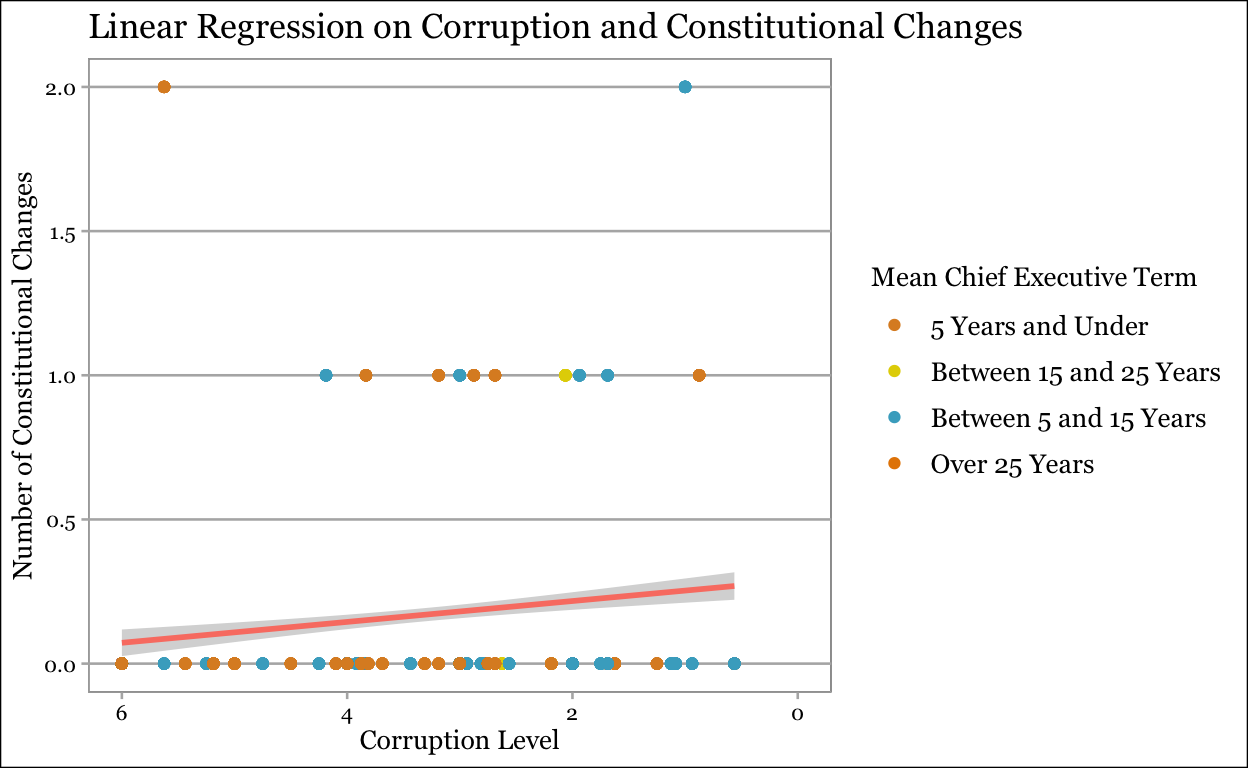
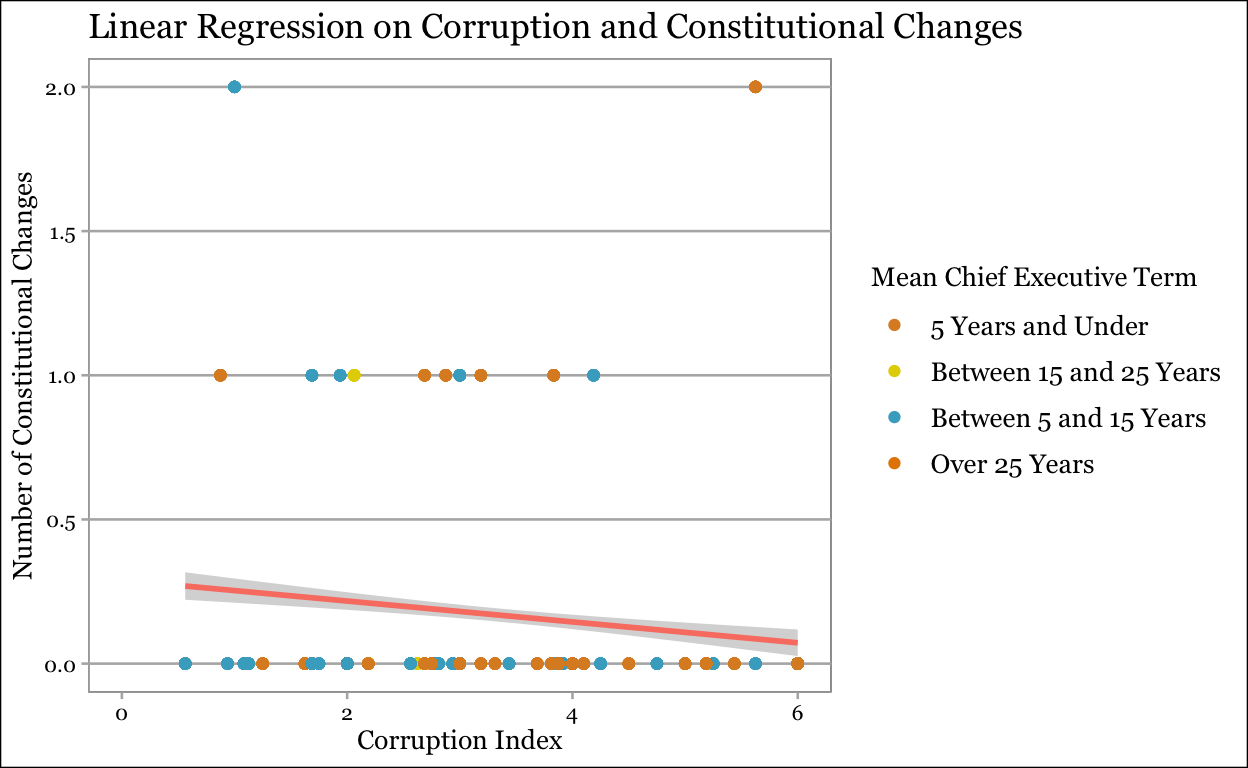
bjvdlo

diff --git a/index.html b/index.html
@@ -110,7 +110,7 @@ code span.wa { color: #5e5e5e; font-style: italic; } /* Warning */
   <!--radix_placeholder_rmarkdown_metadata-->
 
   <script type="text/json" id="radix-rmarkdown-metadata">
-  {"type":"list","attributes":{"names":{"type":"character","attributes":{},"value":["title","author","description","output"]}},"value":[{"type":"character","attributes":{},"value":["Gov 50 Final Project"]},{"type":"list","attributes":{},"value":[{"type":"list","attributes":{"names":{"type":"character","attributes":{},"value":["name"]}},"value":[{"type":"character","attributes":{},"value":["Ayla Aliyeva"]}]}]},{"type":"character","attributes":{},"value":["Corruption, Constitutional Changes, Leadership: An Analysis"]},{"type":"list","attributes":{"names":{"type":"character","attributes":{},"value":["distill::distill_article"]}},"value":[{"type":"list","attributes":{"names":{"type":"character","attributes":{},"value":["self_contained"]}},"value":[{"type":"logical","attributes":{},"value":[false]}]}]}]}
+  {"type":"list","attributes":{"names":{"type":"character","attributes":{},"value":["title","author","description","output"]}},"value":[{"type":"character","attributes":{},"value":["Gov 50 Final Project"]},{"type":"list","attributes":{},"value":[{"type":"list","attributes":{"names":{"type":"character","attributes":{},"value":["name"]}},"value":[{"type":"character","attributes":{},"value":["Ayla Aliyeva"]}]}]},{"type":"character","attributes":{},"value":["Corruption, Constitutional Changes, Leadership: An Analysis"]},{"type":"list","attributes":{"names":{"type":"character","attributes":{},"value":["distill::distill_article"]}},"value":[{"type":"list","attributes":{"names":{"type":"character","attributes":{},"value":["self_contained","toc","toc_float","code_folding"]}},"value":[{"type":"logical","attributes":{},"value":[false]},{"type":"logical","attributes":{},"value":[true]},{"type":"logical","attributes":{},"value":[true]},{"type":"logical","attributes":{},"value":[true]}]}]}]}
   </script>
   <!--/radix_placeholder_rmarkdown_metadata-->
   
@@ -1519,8 +1519,24 @@ code span.wa { color: #5e5e5e; font-style: italic; } /* Warning */
 </div>
 
 <div class="d-article">
+<div class="d-contents d-contents-float">
+<nav class="l-text toc figcaption" id="TOC">
+<h3>Contents</h3>
+<ul>
+<li><a href="#set-up-chunk" id="toc-set-up-chunk">Set up chunk</a></li>
+<li><a href="#preparing-the-data" id="toc-preparing-the-data">Preparing the data</a></li>
+<li><a href="#introduction" id="toc-introduction">Introduction</a></li>
+<li><a href="#data" id="toc-data">Data</a></li>
+<li><a href="#results" id="toc-results">Results</a></li>
+</ul>
+</nav>
+</div>
 <h2 id="set-up-chunk">Set up chunk</h2>
 <div class="layout-chunk" data-layout="l-body">
+<details>
+<summary>
+Show code
+</summary>
 <div class="sourceCode">
 <pre class="sourceCode r"><code class="sourceCode r"><span><span class='kw'><a href='https://rdrr.io/r/base/library.html'>library</a></span><span class='op'>(</span><span class='va'><a href='https://tidyverse.tidyverse.org'>tidyverse</a></span><span class='op'>)</span></span>
 <span><span class='kw'><a href='https://rdrr.io/r/base/library.html'>library</a></span><span class='op'>(</span><span class='va'><a href='https://github.com/jrnold/ggthemes'>ggthemes</a></span><span class='op'>)</span></span>
@@ -1528,12 +1544,14 @@ code span.wa { color: #5e5e5e; font-style: italic; } /* Warning */
 <span><span class='kw'><a href='https://rdrr.io/r/base/library.html'>library</a></span><span class='op'>(</span><span class='va'><a href='https://jtools.jacob-long.com'>jtools</a></span><span class='op'>)</span></span>
 <span><span class='kw'><a href='https://rdrr.io/r/base/library.html'>library</a></span><span class='op'>(</span><span class='va'><a href='https://modelsummary.com'>modelsummary</a></span><span class='op'>)</span></span></code></pre>
 </div>
+</details>
 </div>
-<h2 id="introduction">Introduction</h2>
-<p>Do higher levels of corruption lead to more frequent constitutional changes? If so, is there a direct correlation between this trend and the average number of years the Chief Executive of a country stays in power? In this study, I examine data from a variety of countries in order to explore the relationship between these variables throughout the two decades of the 1970s and 1980s. I hypothesise that higher levels of corruption are positively correlated with more frequent constitutional changes and a higher average period within which a Chief Executive remains in office. This hypothesis is grounded in the theory that governments with higher corruption levels are more likely to revise legislation in order to hold on to power.</p>
-<p>Through this study, I attempt to explore the implications of corruption in the misuse of power to influence constitutional frameworks and governance. In the case that the data supports the hypothesis, this would point to a country’s level of corruption as a determinant of both the nature of its legal system, as well as the course of its executive leadership.</p>
 <h2 id="preparing-the-data">Preparing the data</h2>
 <div class="layout-chunk" data-layout="l-body">
+<details>
+<summary>
+Show code
+</summary>
 <div class="sourceCode">
 <pre class="sourceCode r"><code class="sourceCode r"><span><span class='co'>## Reading data files</span></span>
 <span></span>
@@ -1583,12 +1601,20 @@ code span.wa { color: #5e5e5e; font-style: italic; } /* Warning */
 <span> <span class='va'>data</span> <span class='op'>&lt;-</span> <span class='va'>data</span> <span class='op'>|&gt;</span></span>
 <span>   <span class='fu'><a href='https://dplyr.tidyverse.org/reference/select.html'>select</a></span><span class='op'>(</span><span class='va'>country</span>,<span class='va'>year</span>, <span class='va'>constchg70</span>, <span class='va'>constchg80</span>, <span class='va'>constch_overall</span>, <span class='va'>corrupti</span>, <span class='va'>yrsoffc</span>, <span class='va'>avg_yrsoffc</span><span class='op'>)</span></span></code></pre>
 </div>
+</details>
 </div>
-<h2 id="data-section">Data Section</h2>
+<h2 id="introduction">Introduction</h2>
+<p>Do higher levels of corruption lead to more frequent constitutional changes? If so, is there a direct correlation between this trend and the average number of years the Chief Executive of a country stays in power? In this study, I examine data from a variety of countries in order to explore the relationship between these variables throughout the two decades of the 1970s and 1980s. I hypothesise that higher levels of corruption are positively correlated with more frequent constitutional changes and a higher average period within which a Chief Executive remains in office. This hypothesis is grounded in the theory that governments with higher corruption levels are more likely to revise legislation in order to hold on to power.</p>
+<p>Through this study, I attempt to explore the implications of corruption in the misuse of power to influence constitutional frameworks and governance. In the case that the data supports the hypothesis, this would point to a country’s level of corruption as a determinant of both the nature of its legal system, as well as the course of its executive leadership.</p>
+<h2 id="data">Data</h2>
 <p>The data source used in this study is one that has been gathered by merging the Political Violence Dataset, as well as the Inter-American Development Bank “Database of Political Institutions” to ultimately extract the key dependent and independent variables.</p>
-<p>The dependent variable used in this research is the overall number of major constitutional changes for countries throughout the period of the 1970s and 1980s, derived from the two variables relaying the number of constitutional changes for a given country within each of the two decades, its measurement method being through a compilation of government records. The key independent variables are the countries’ level of corruption, as well as the average number of years the Chief Executive remains in office. The level of corruption is measured using 1980-1989 Knack and Keefer measure of corruption, with a lower number indicating a lower level of corruption. The latter variable relays the official number of years the Chief Executive of the time remained in office, calculated cumulatively for each Chief Executive as of January 1st of each year, derived from public records.</p>
-<p>The density plot below summarises the frequency of constitutional change across countries, demonstrating the manner in which the variable is skewed to the right, with most countries having undergone no constitutional changes over the two decades.</p>
+<p>The dependent variable used in this research is the overall number of major constitutional changes for countries throughout the period of the 1970s and 1980s, derived from the two variables relaying the number of constitutional changes for a given country within each of the two decades, its measurement method being through a compilation of government records. The key independent variables are the countries’ level of corruption, as well as the average number of years the Chief Executive remains in office. The level of corruption is measured using 1980-1989 Knack and Keefer measure of corruption, with a lower number indicating a lower level of corruption. The latter independent variable relays the official number of years the Chief Executive of the time remained in office, calculated cumulatively for each Chief Executive as of January 1st of each year, derived from public records.</p>
+<p>The bar plot below summarises the frequency of constitutional change, a discrete variable, across countries between the 1970s and 1980s, demonstrating that a majority countries in the dataset had not gone through constitutional changes within the given period. The second highest bar signifies countries that had undergone 1 constitutional change, with the lowest bar showing countries that had undergone 2 constitutional changes.</p>
 <div class="layout-chunk" data-layout="l-body">
+<details>
+<summary>
+Show code
+</summary>
 <div class="sourceCode">
 <pre class="sourceCode r"><code class="sourceCode r"><span><span class='co'>## Creating an object that extracts first observation for each country</span></span>
 <span><span class='va'>countryonce_data</span> <span class='op'>&lt;-</span></span>
@@ -1600,15 +1626,24 @@ code span.wa { color: #5e5e5e; font-style: italic; } /* Warning */
 <span><span class='co'>## Bar plot summarizing key dependent variable</span></span>
 <span><span class='va'>countryonce_data</span> <span class='op'>|&gt;</span></span>
 <span>  <span class='fu'><a href='https://ggplot2.tidyverse.org/reference/ggplot.html'>ggplot</a></span><span class='op'>(</span>mapping <span class='op'>=</span> <span class='fu'><a href='https://ggplot2.tidyverse.org/reference/aes.html'>aes</a></span><span class='op'>(</span>x <span class='op'>=</span> <span class='va'>constch_overall</span><span class='op'>)</span><span class='op'>)</span> <span class='op'>+</span> </span>
-<span>  <span class='fu'><a href='https://ggplot2.tidyverse.org/reference/geom_density.html'>geom_density</a></span><span class='op'>(</span>fill <span class='op'>=</span> <span class='st'>"lightsteelblue"</span><span class='op'>)</span> <span class='op'>+</span> </span>
+<span>  <span class='fu'><a href='https://ggplot2.tidyverse.org/reference/geom_bar.html'>geom_bar</a></span><span class='op'>(</span>fill <span class='op'>=</span> <span class='st'>"lightsteelblue"</span>, colour <span class='op'>=</span> <span class='st'>"darkblue"</span><span class='op'>)</span> <span class='op'>+</span> </span>
 <span>  <span class='fu'><a href='https://ggplot2.tidyverse.org/reference/labs.html'>labs</a></span><span class='op'>(</span>title <span class='op'>=</span> <span class='st'>"Frequency of Constitutional Change Across Countries"</span>, y <span class='op'>=</span> <span class='st'>"Number of Countries"</span>, x <span class='op'>=</span> <span class='st'>"Number of Major Constitutional Changes (1970s-1980s)"</span><span class='op'>)</span> <span class='op'>+</span> </span>
 <span>  <span class='fu'><a href='https://rdrr.io/pkg/ggthemes/man/theme_calc.html'>theme_calc</a></span><span class='op'>(</span><span class='op'>)</span> <span class='op'>+</span></span>
 <span>  <span class='fu'><a href='https://ggplot2.tidyverse.org/reference/theme.html'>theme</a></span><span class='op'>(</span>text <span class='op'>=</span> <span class='fu'><a href='https://ggplot2.tidyverse.org/reference/element.html'>element_text</a></span><span class='op'>(</span><span class='st'>"Georgia"</span><span class='op'>)</span><span class='op'>)</span></span></code></pre>
 </div>
+</details>
 <p><img src="index_files/figure-html5/unnamed-chunk-3-1.png" width="624" /></p>
 </div>
-<h2 id="visualisation-2---results-regression-combining-everything">Visualisation 2 - Results, Regression, Combining everything</h2>
+<h2 id="results">Results</h2>
+<p>In order to explore the main relationships of interest, I constructed a scatter plot, followed by a linear regression of the results. As shown by the estimated line of best fit in the graph below, the correlation between the number of constitutional changes and the 1980-1989 Knack and Keefer index of corruption is negative. As mentioned above, a higher corruption index signifies a lower actual level of corruption. Therefore, according to the plot, higher corruption is associated with a higher number of constitutional changes.</p>
+<p>The linear regression further supports this relationship. The corrupti (corruption index) coefficient of -0.035 estimates that for every unit increase in the corruption index, there is a 0.035 decrease in the number of constitutional changes. The p value being below 0.001 shows that the coefficient is statistically significant, meaning that we may reject the null hypothesis of no effect. Furthermore, the relatively small standard error (which shows how far, on average, the actual points of observation lie from the estimated line of regression) of 0.008 implies the regression to be a rather precise estimate.</p>
+<p>In regards to the relationship between the number of constitutional changes and the average number of years a Chief Executive remains in office (the second independent variable), the regression shows a positive correlation. More specifically, the coefficient of 0.001 suggests that for every unit increase in the mean Chief Executive term in office, there is a 0.001 increase in the number of constitutional changes. However, the p value of 0.115, means that at a significance level of 0.05, the coefficient is not statistically significant. Therefore, in this case, we cannot reject the null hypothesis.</p>
+<p>Considering the analysis above, while we can establish a correlation between the dependent and independent variables, we cannot be certain that the relationship between them is causal. This is due to the possibility of omitted variables as well as potential confounders, such as factors influencing the overall economic and political stability in the given countries.</p>
 <div class="layout-chunk" data-layout="l-body">
+<details>
+<summary>
+Show code
+</summary>
 <div class="sourceCode">
 <pre class="sourceCode r"><code class="sourceCode r"><span><span class='co'>## Creating a variable with categories describing average years of countries' Chief Executive in office</span></span>
 <span></span>
@@ -1629,15 +1664,19 @@ code span.wa { color: #5e5e5e; font-style: italic; } /* Warning */
 <span>  <span class='fu'><a href='https://ggplot2.tidyverse.org/reference/ggplot.html'>ggplot</a></span><span class='op'>(</span>mapping <span class='op'>=</span> <span class='fu'><a href='https://ggplot2.tidyverse.org/reference/aes.html'>aes</a></span><span class='op'>(</span>x <span class='op'>=</span> <span class='va'>corrupti</span>, y <span class='op'>=</span> <span class='va'>constch_overall</span>, colour <span class='op'>=</span> <span class='va'>avgyrs_range</span><span class='op'>)</span><span class='op'>)</span> <span class='op'>+</span> </span>
 <span>  <span class='fu'><a href='https://ggplot2.tidyverse.org/reference/geom_point.html'>geom_point</a></span><span class='op'>(</span><span class='op'>)</span> <span class='op'>+</span> </span>
 <span>  <span class='fu'><a href='https://ggplot2.tidyverse.org/reference/geom_smooth.html'>geom_smooth</a></span><span class='op'>(</span>method <span class='op'>=</span> <span class='va'>lm</span>, colour <span class='op'>=</span> <span class='st'>"salmon"</span><span class='op'>)</span> <span class='op'>+</span> </span>
-<span>  <span class='fu'><a href='https://ggplot2.tidyverse.org/reference/labs.html'>labs</a></span><span class='op'>(</span>title <span class='op'>=</span> <span class='st'>"Linear Regression on Corruption and Constitutional Changes"</span>, y <span class='op'>=</span> <span class='st'>"Number of Constitutional Changes"</span>, x <span class='op'>=</span> <span class='st'>"Corruption Level"</span>, colour <span class='op'>=</span> <span class='st'>"Mean Chief Executive Term"</span><span class='op'>)</span> <span class='op'>+</span> </span>
-<span>  <span class='fu'><a href='https://ggplot2.tidyverse.org/reference/scale_continuous.html'>scale_x_reverse</a></span><span class='op'>(</span><span class='op'>)</span> <span class='op'>+</span></span>
+<span>  <span class='fu'><a href='https://ggplot2.tidyverse.org/reference/labs.html'>labs</a></span><span class='op'>(</span>title <span class='op'>=</span> <span class='st'>"Linear Regression on Corruption and Constitutional Changes"</span>, y <span class='op'>=</span> <span class='st'>"Number of Constitutional Changes"</span>, x <span class='op'>=</span> <span class='st'>"Corruption Index"</span>, colour <span class='op'>=</span> <span class='st'>"Mean Chief Executive Term"</span><span class='op'>)</span> <span class='op'>+</span> </span>
 <span>  <span class='fu'><a href='https://rdrr.io/pkg/ggthemes/man/theme_calc.html'>theme_calc</a></span><span class='op'>(</span><span class='op'>)</span> <span class='op'>+</span></span>
 <span>  <span class='fu'><a href='https://ggplot2.tidyverse.org/reference/scale_manual.html'>scale_color_manual</a></span><span class='op'>(</span>values <span class='op'>=</span> <span class='fu'><a href='https://rdrr.io/pkg/wesanderson/man/wes_palette.html'>wes_palette</a></span><span class='op'>(</span><span class='st'>"FantasticFox1"</span><span class='op'>)</span><span class='op'>)</span> <span class='op'>+</span></span>
 <span> <span class='fu'><a href='https://ggplot2.tidyverse.org/reference/theme.html'>theme</a></span><span class='op'>(</span>text <span class='op'>=</span> <span class='fu'><a href='https://ggplot2.tidyverse.org/reference/element.html'>element_text</a></span><span class='op'>(</span><span class='st'>"Georgia"</span><span class='op'>)</span><span class='op'>)</span></span>
 <span></span>
 <span><span class='va'>fit_visual</span></span></code></pre>
 </div>
+</details>
 <img src="index_files/figure-html5/unnamed-chunk-4-1.png" width="624" />
+<details>
+<summary>
+Show code
+</summary>
 <div class="sourceCode">
 <pre class="sourceCode r"><code class="sourceCode r"><span><span class='co'>## Regression Output</span></span>
 <span></span>
@@ -1648,6 +1687,7 @@ code span.wa { color: #5e5e5e; font-style: italic; } /* Warning */
 <span>                                         <span class='st'>"p = {p.value}"</span><span class='op'>)</span>,</span>
 <span>                           gof_map <span class='op'>=</span> <span class='fu'><a href='https://rdrr.io/r/base/c.html'>c</a></span><span class='op'>(</span><span class='st'>""</span><span class='op'>)</span><span class='op'>)</span> </span></code></pre>
 </div>
+</details>
 <table class="table" style="width: auto !important; margin-left: auto; margin-right: auto;">
 <thead>
 <tr>
